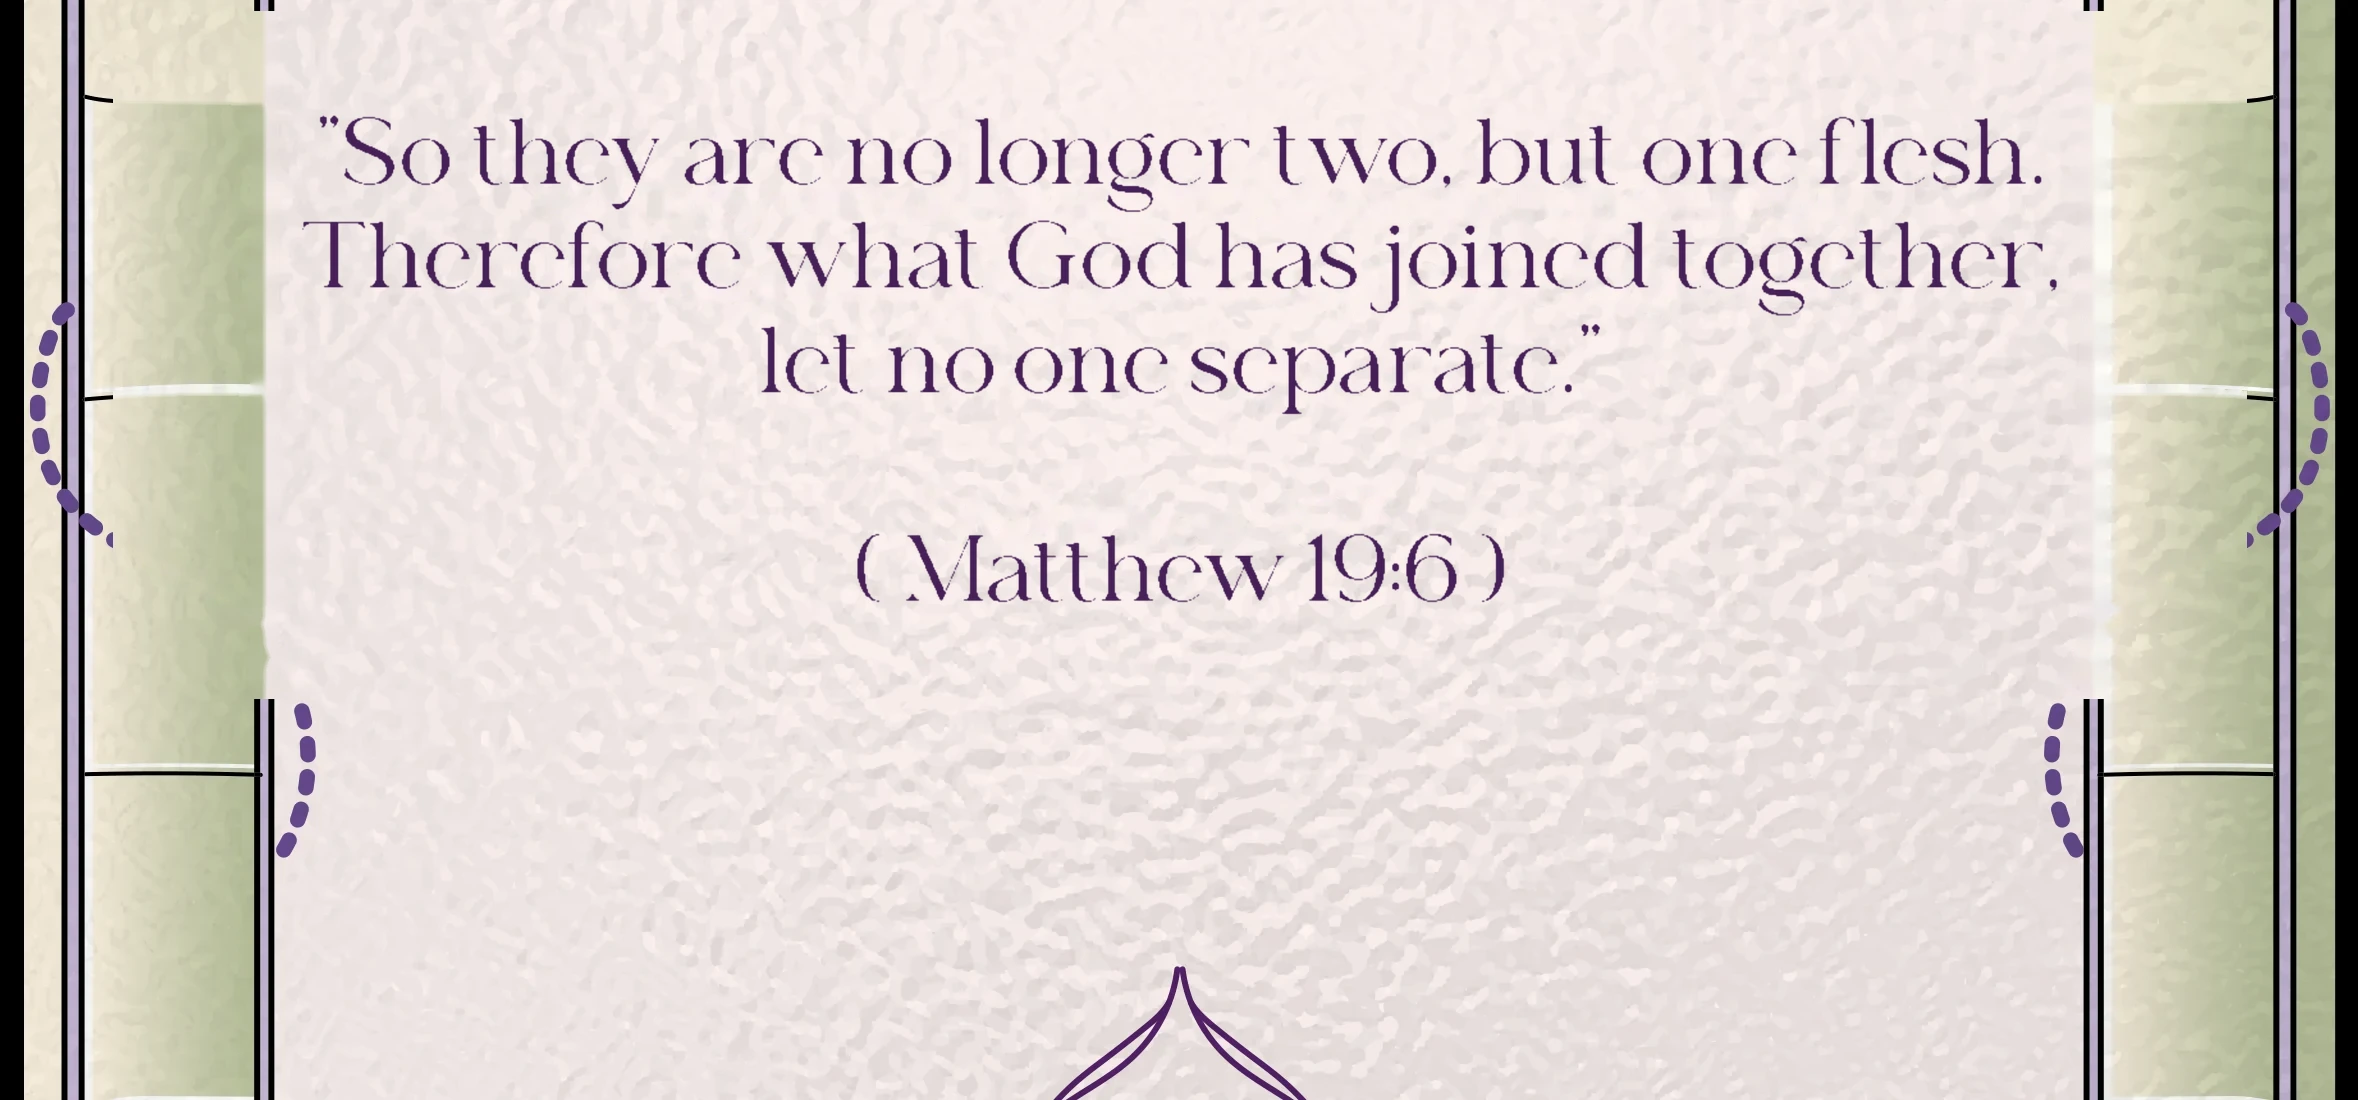
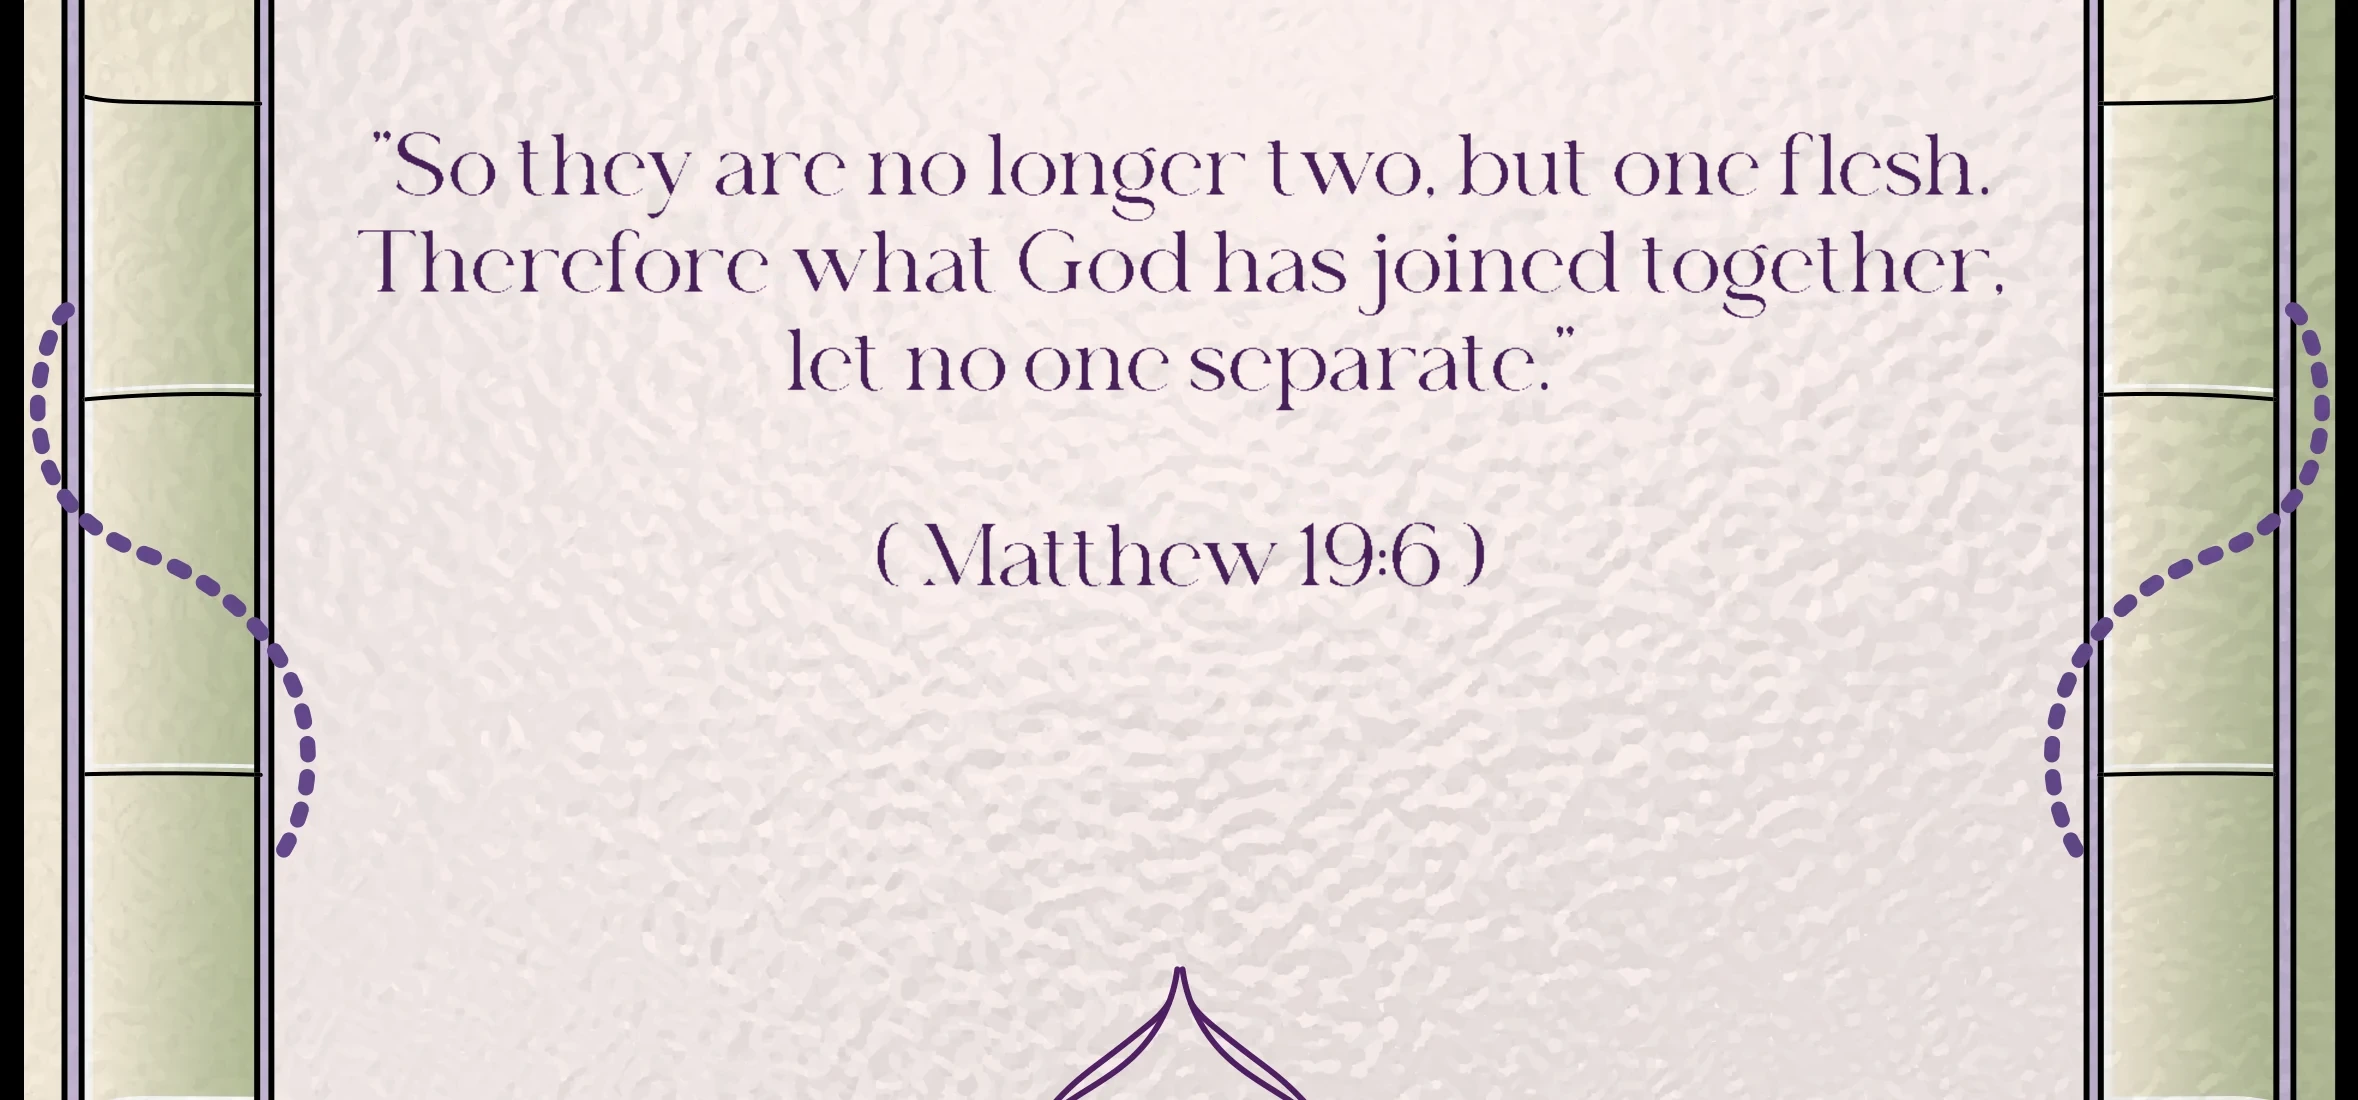
Fix decorative border damaged by verse enlargement

Changed region(s): [[0.031, 0.0, 0.9597, 0.6491], [0.3405, 0.4636, 0.6501, 0.5564], [0.3096, 0.3091, 0.6501, 0.3709]]

diff --git a/index.html b/index.html
@@ -478,7 +478,7 @@
 <div class="invite-page">
   <div class="invite-wrap" id="inviteWrap">
     <img class="bg" src="images/section_00.webp" alt="Stained-glass arch with doves and lilies framing the initial M, for the wedding of Nancy and Marc" width="2358" height="2300">
-    <img class="bg" src="images/section_01.webp?v=2" alt="" role="presentation" width="2358" height="1100">
+    <img class="bg" src="images/section_01.webp?v=3" alt="" role="presentation" width="2358" height="1100">
     <img class="bg" src="images/section_02.webp" alt="Nancy Nashaat and Marc Adel, together with their families, joyfully invite you to celebrate their wedding" width="2358" height="2500">
     <img class="bg" src="images/section_03.webp" alt="Saturday 24 October 2026 — a day we'd be honored to share with you" width="2358" height="2700">
     <img class="bg" src="images/section_04.webp?v=2" alt="Countdown to the wedding" width="2358" height="1670">
